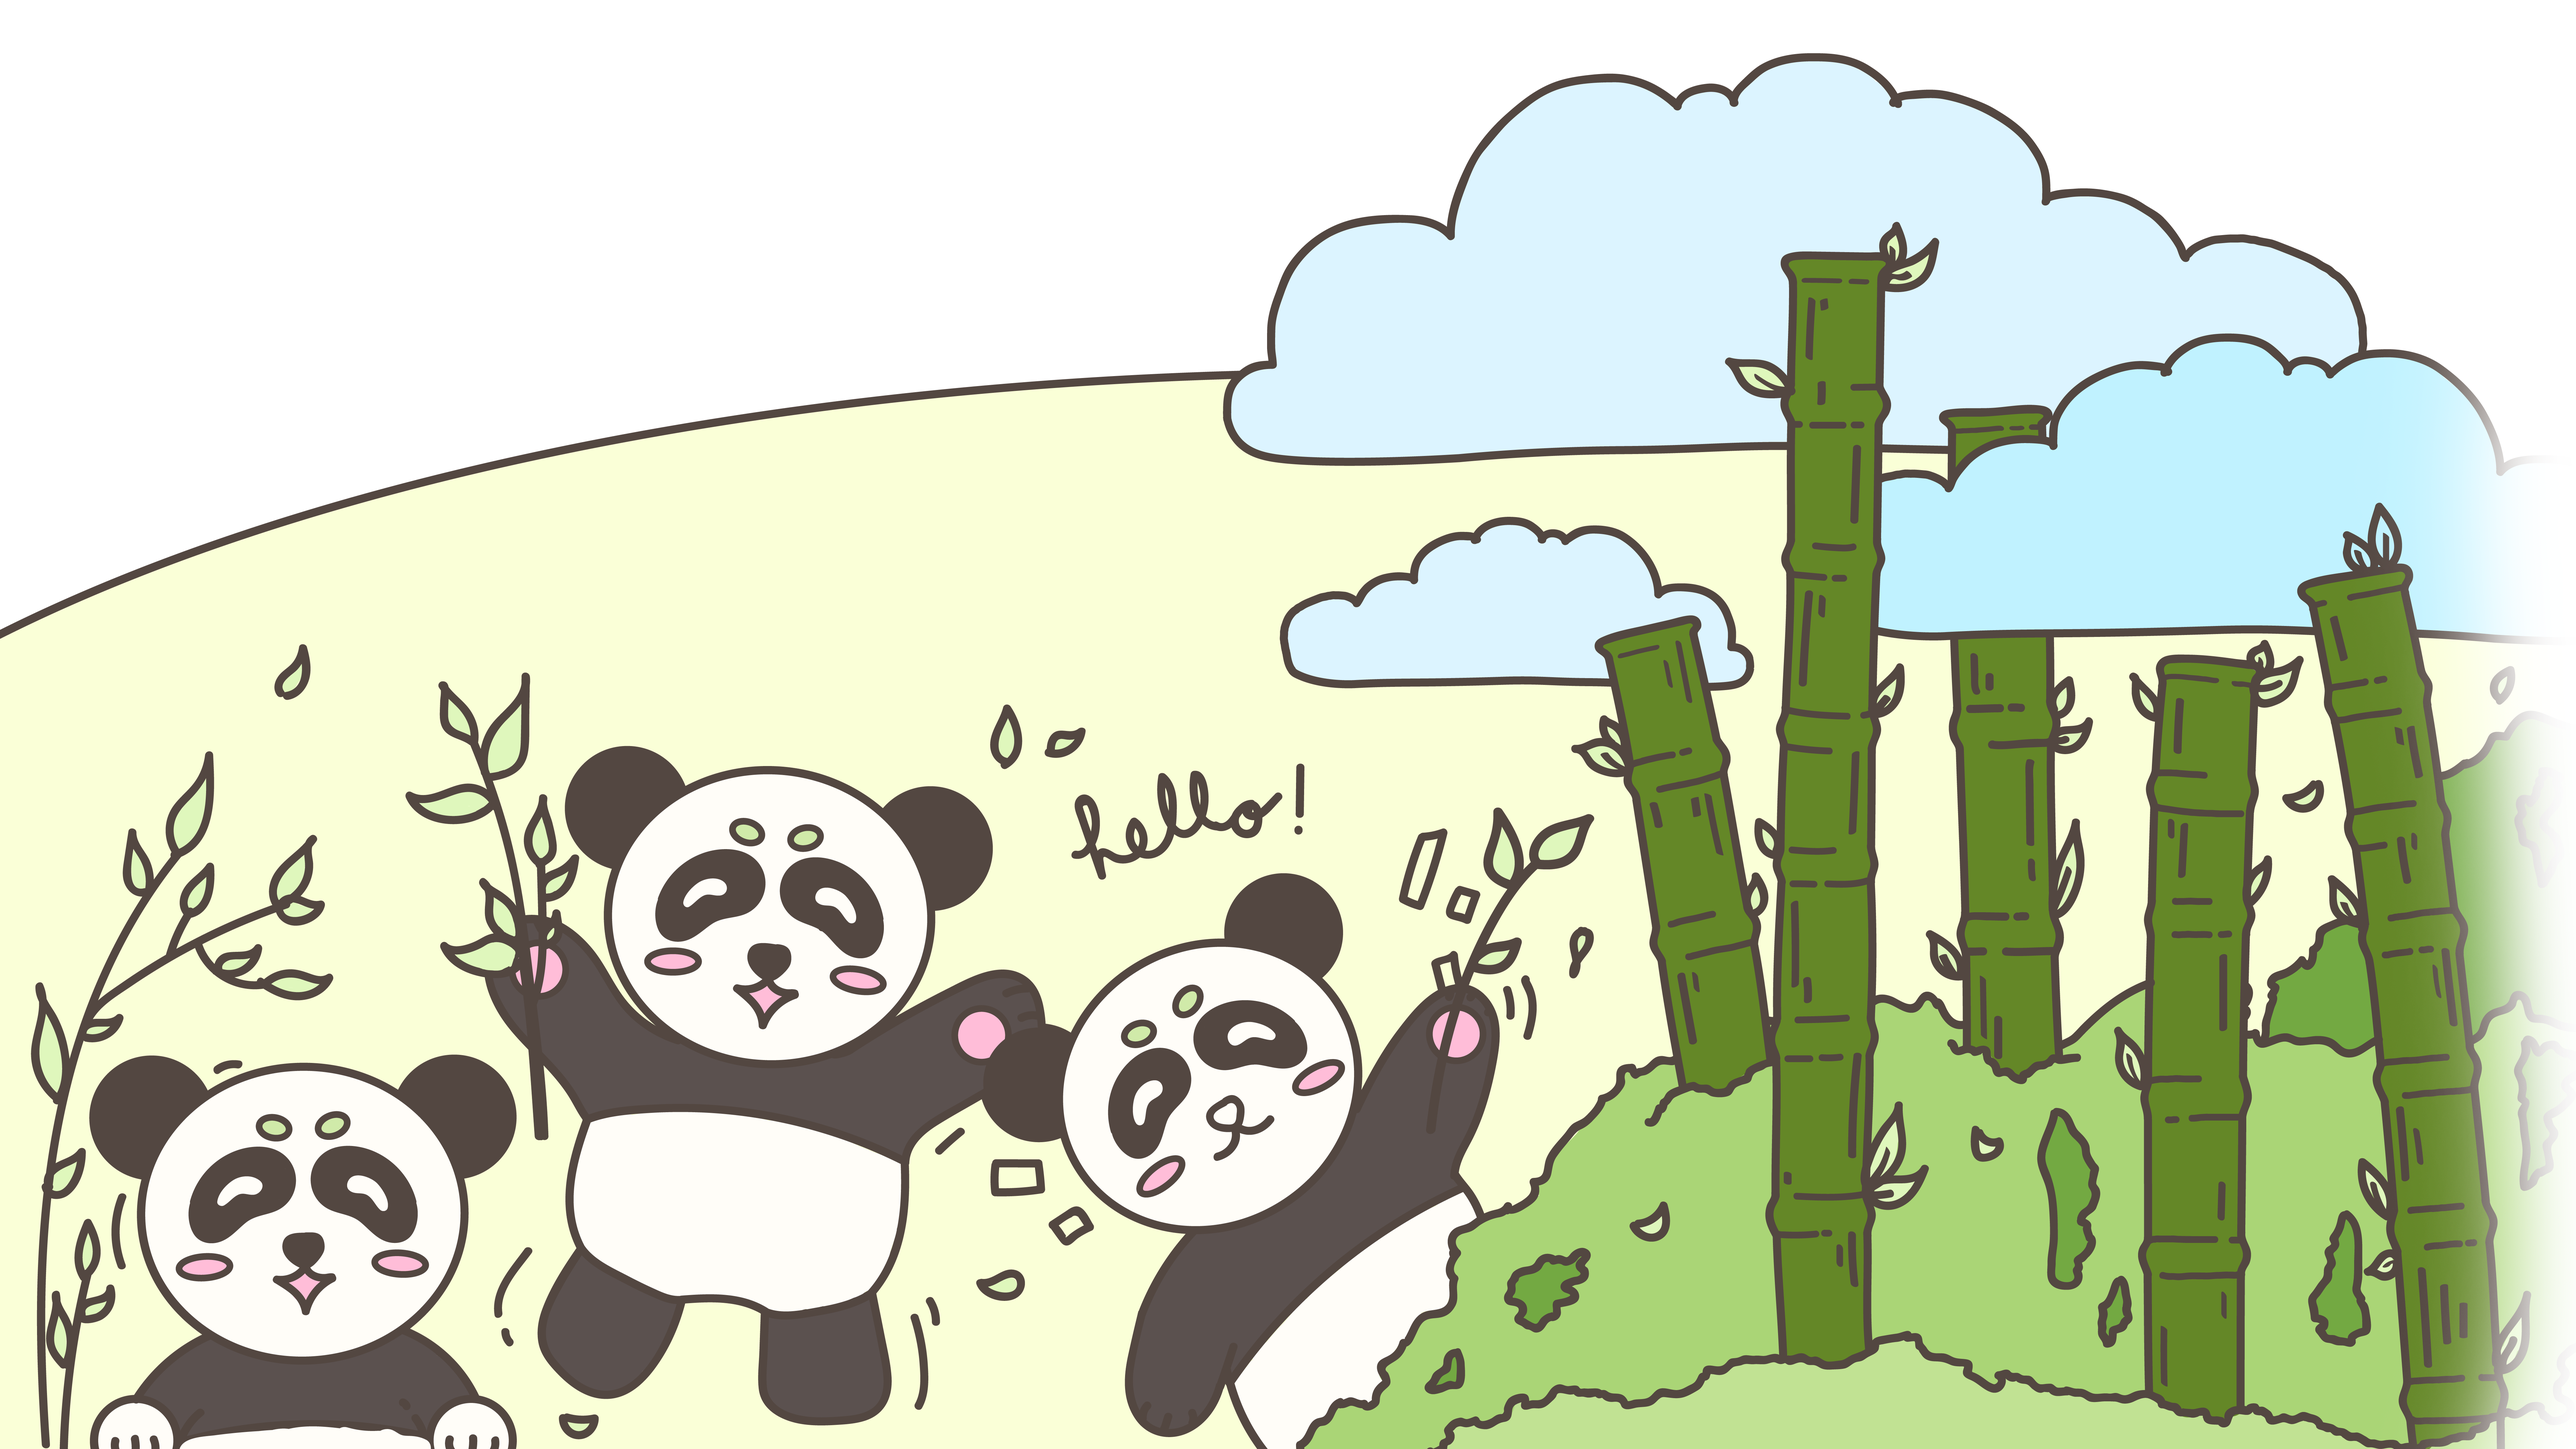
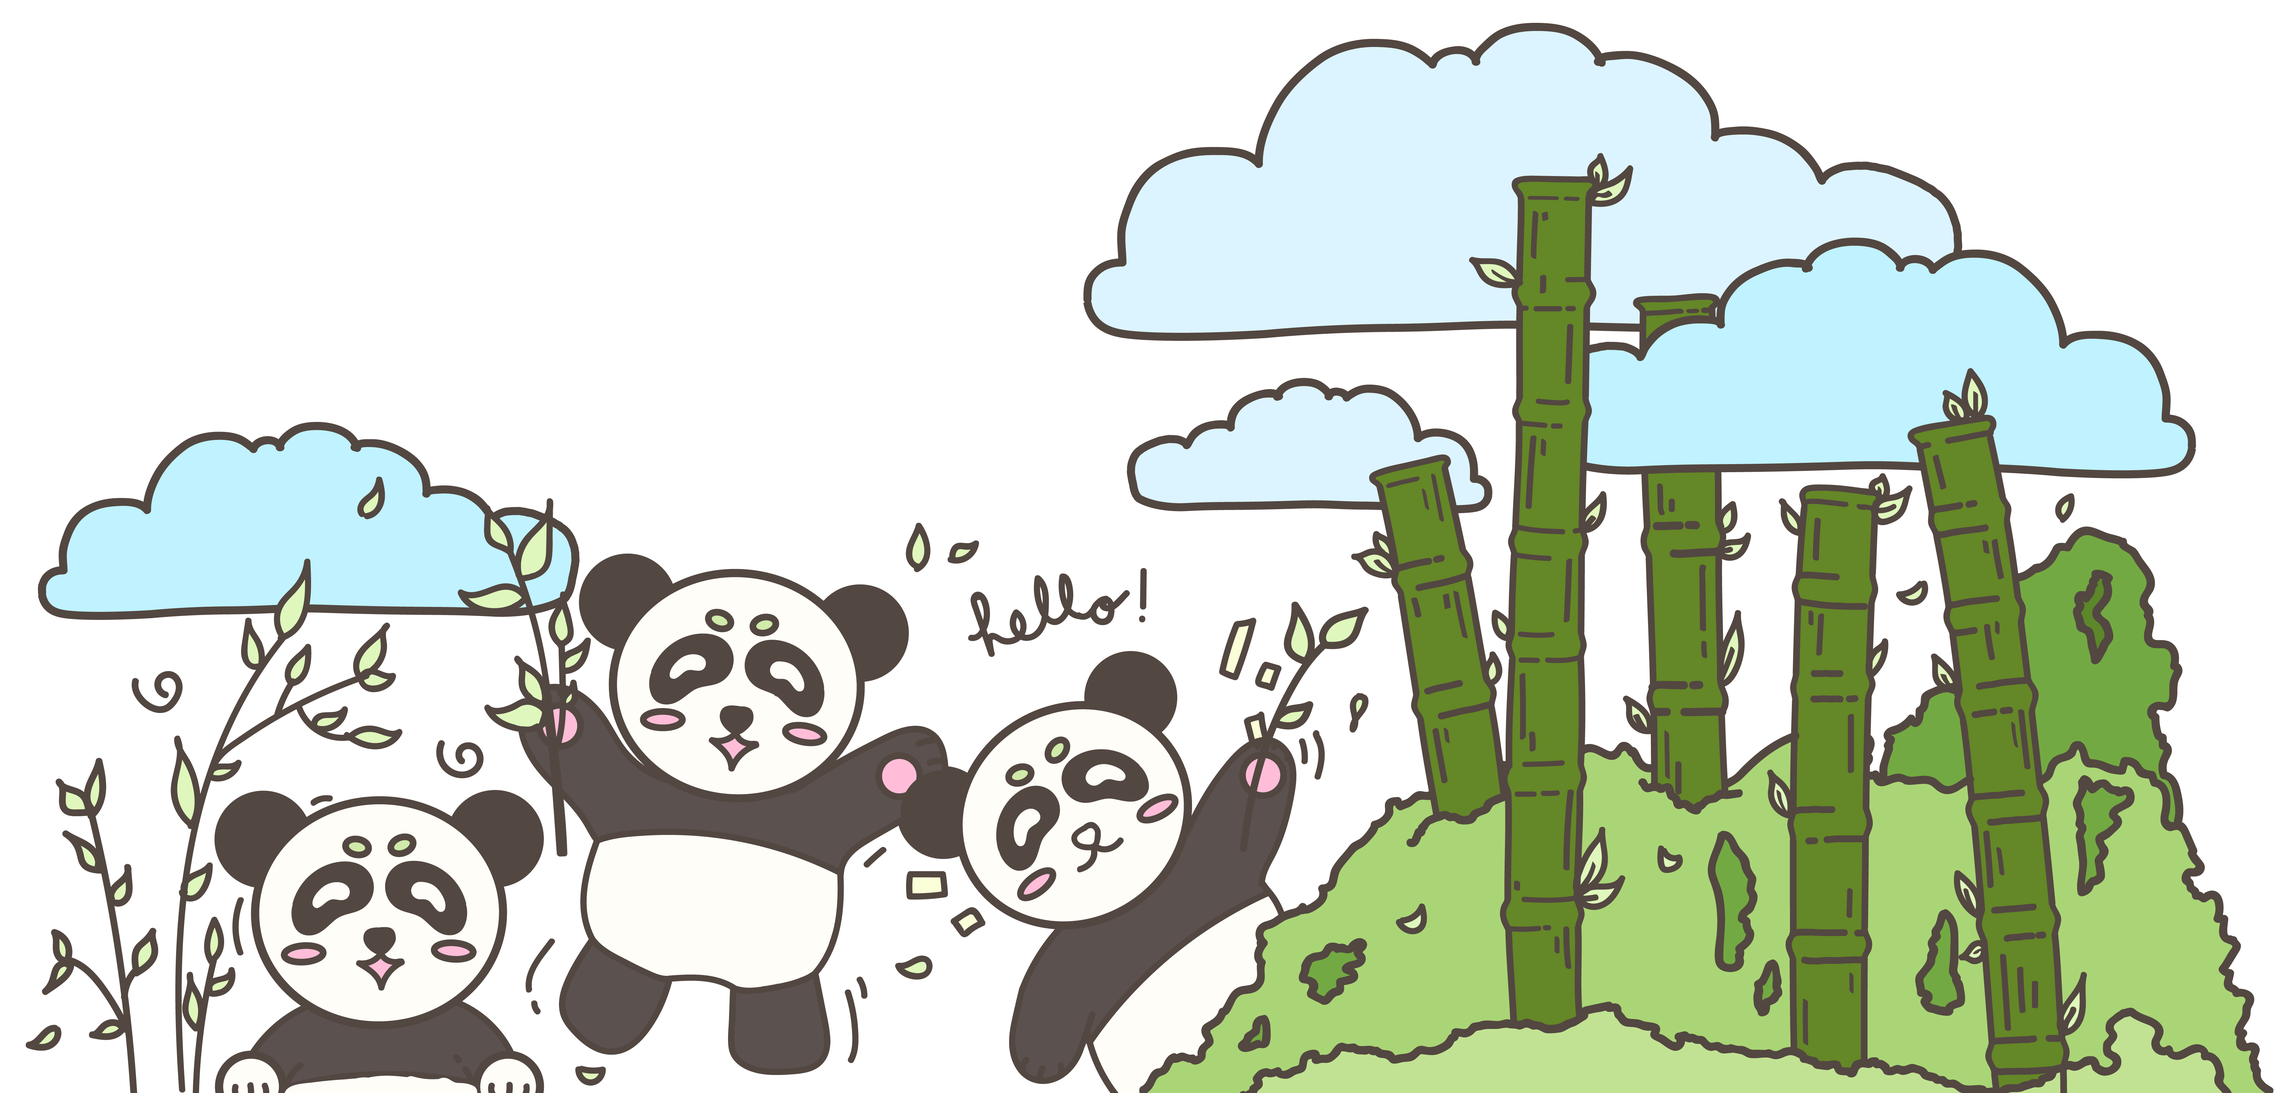
a

diff --git a/src/components/Pandaprice/PandapriceElements.js b/src/components/Pandaprice/PandapriceElements.js
@@ -179,7 +179,7 @@ export const PandaP = styled.p`
 
 export const PandaFlexContainer = styled.div`
     display: flex;
-    justify-content: space-around;
+    justify-content: center;
     align-items: center;
     align-content: space-between;
 `
@@ -192,13 +192,12 @@ export const PandaColumnContent = styled.div`
 
 export const Img = styled.img`
     position: relative;
-    width: 100%;
-    height: 100%;
-    -o-object-fit: cover;
-    object-fit: cover;
-    -webkit-user-drag: none;
-    user-select: none;
-    -moz-user-select: none;
-    -webkit-user-select: none;
-    -ms-user-select: none;
+    width: 70vw;
+    height: auto;
+    display: flex;
+    justify-content: center;
+
+    @media screen and (max-width:468px){
+        width: 50vh;
+    }
 `

diff --git a/src/components/Pandaprice/index.js b/src/components/Pandaprice/index.js
@@ -2,7 +2,7 @@ import React from 'react'
 import { PandaContainer, PandaBg, PandaContent, PandaRow,
     PandaColumn, FlexboxPandaContainer, ColumnContent, ColumnContent2,
     PandaH1, PandaP, PandaFlexContainer,PandaColumnContent, Img} from './PandapriceElements'
-import img from '../../image/acquirepanda.png'
+import img from '../../image/acquirepanda2.png'
 const Pandaprice = () => {
   return (
     <PandaContainer>

diff --git a/src/components/Timer/index.js b/src/components/Timer/index.js
@@ -12,7 +12,7 @@ const Timer = () => {
   let interval = useRef();
 
   const startTimer = () =>{
-    const countdownDate = new Date('May 23, 2022 00:00:00').getTime();
+    const countdownDate = new Date().getTime();
 
     interval = setInterval (() => {
       const now = new Date().getTime();
